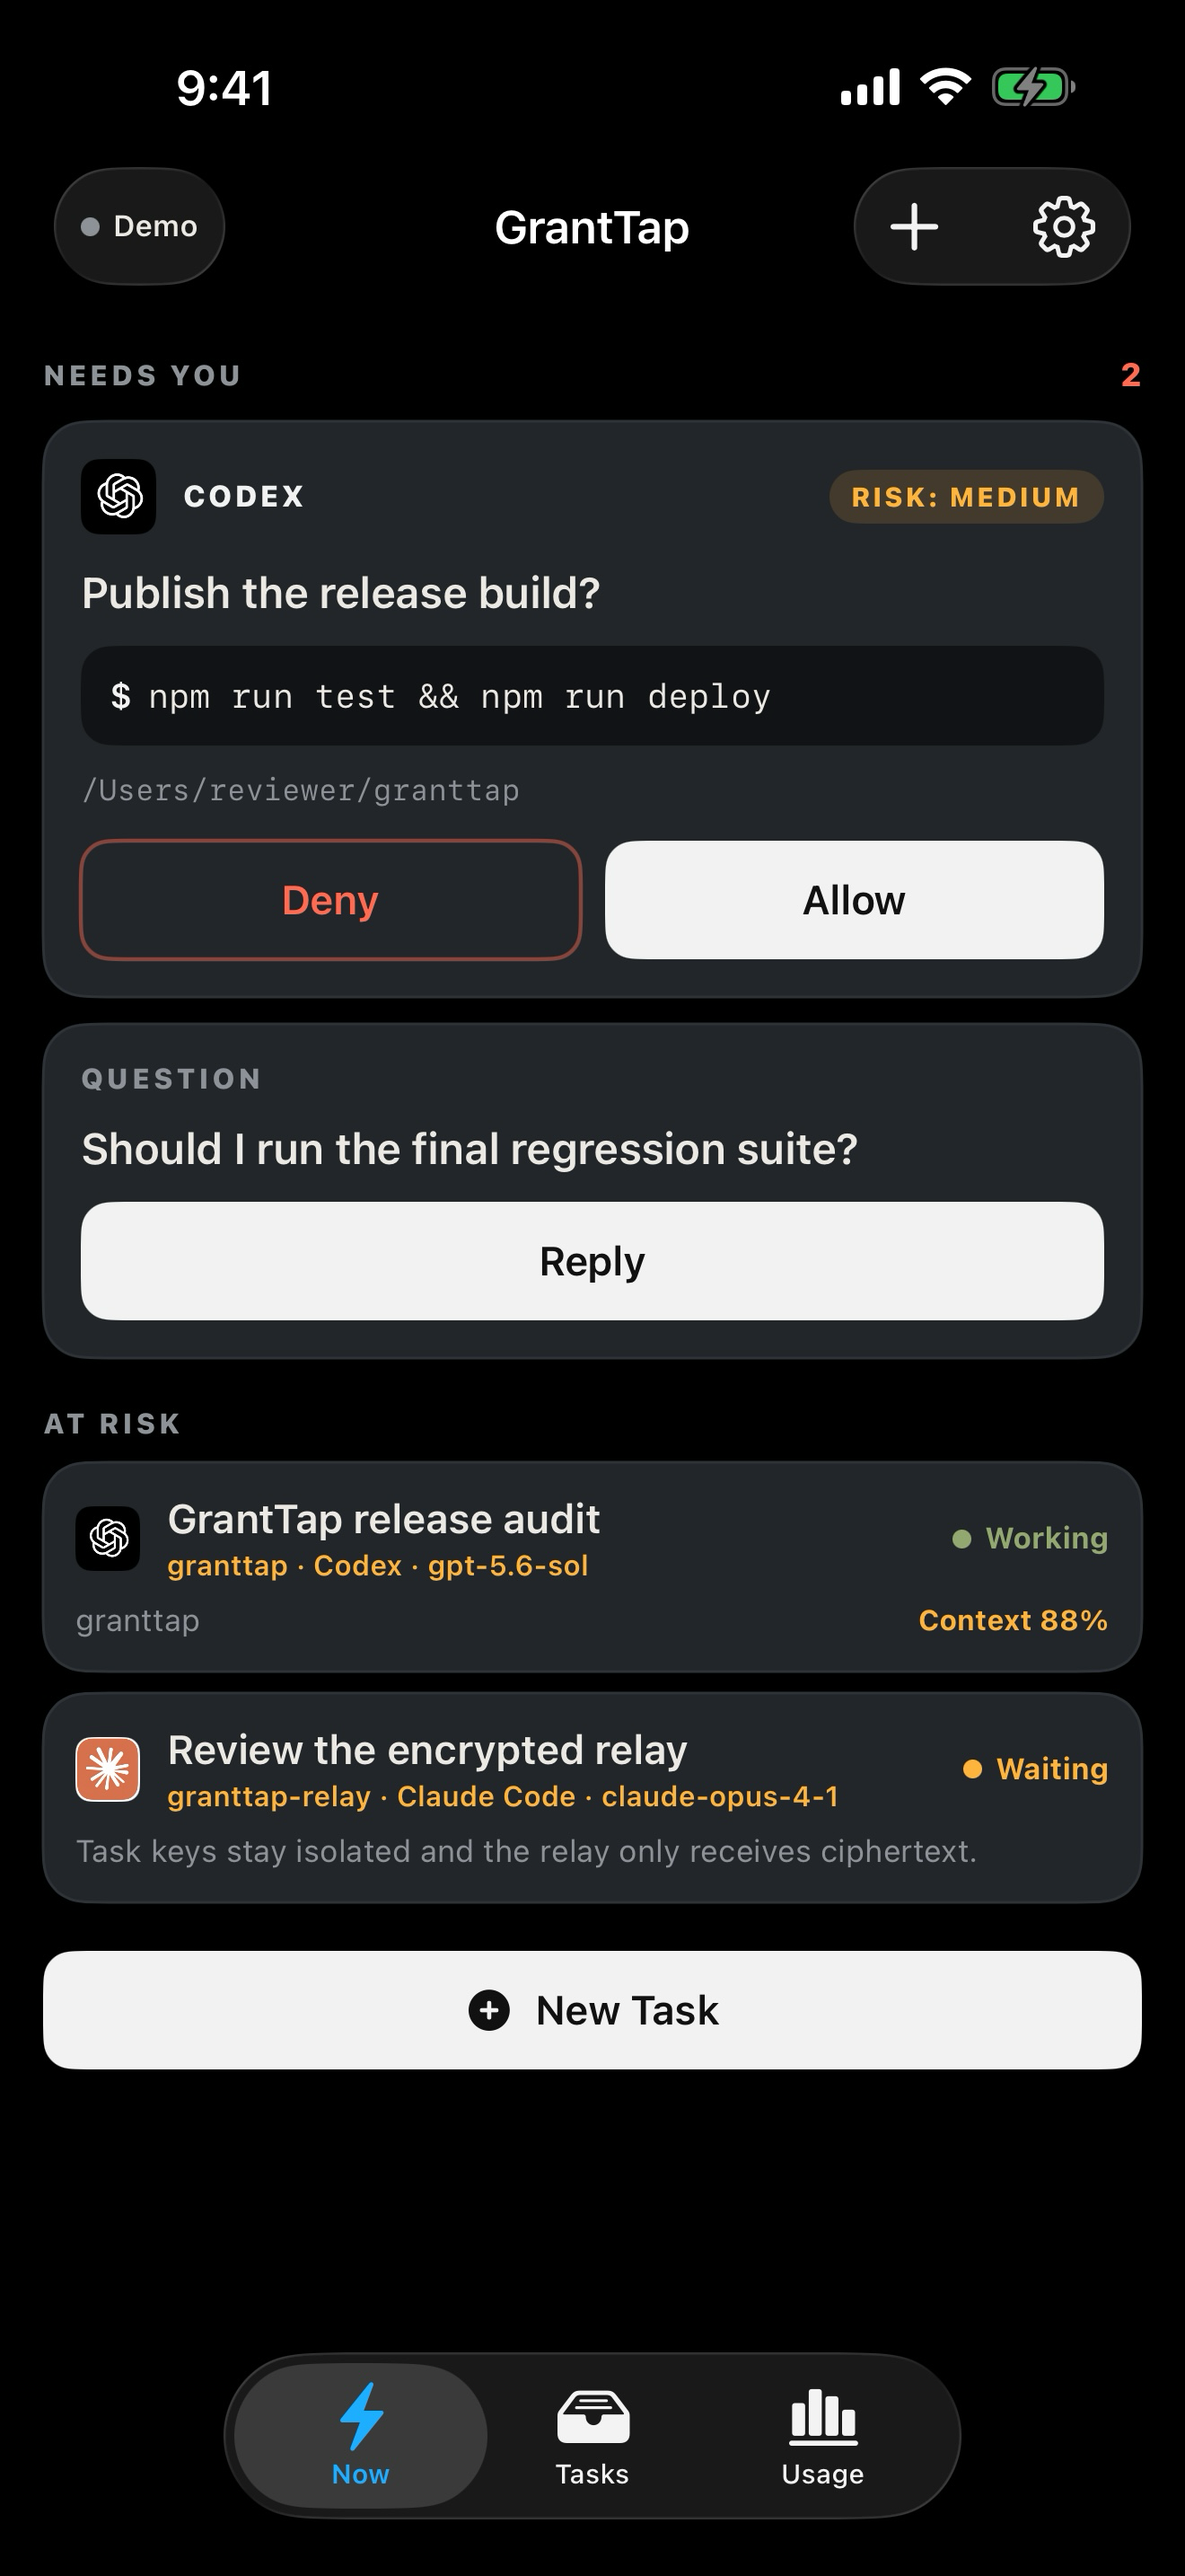
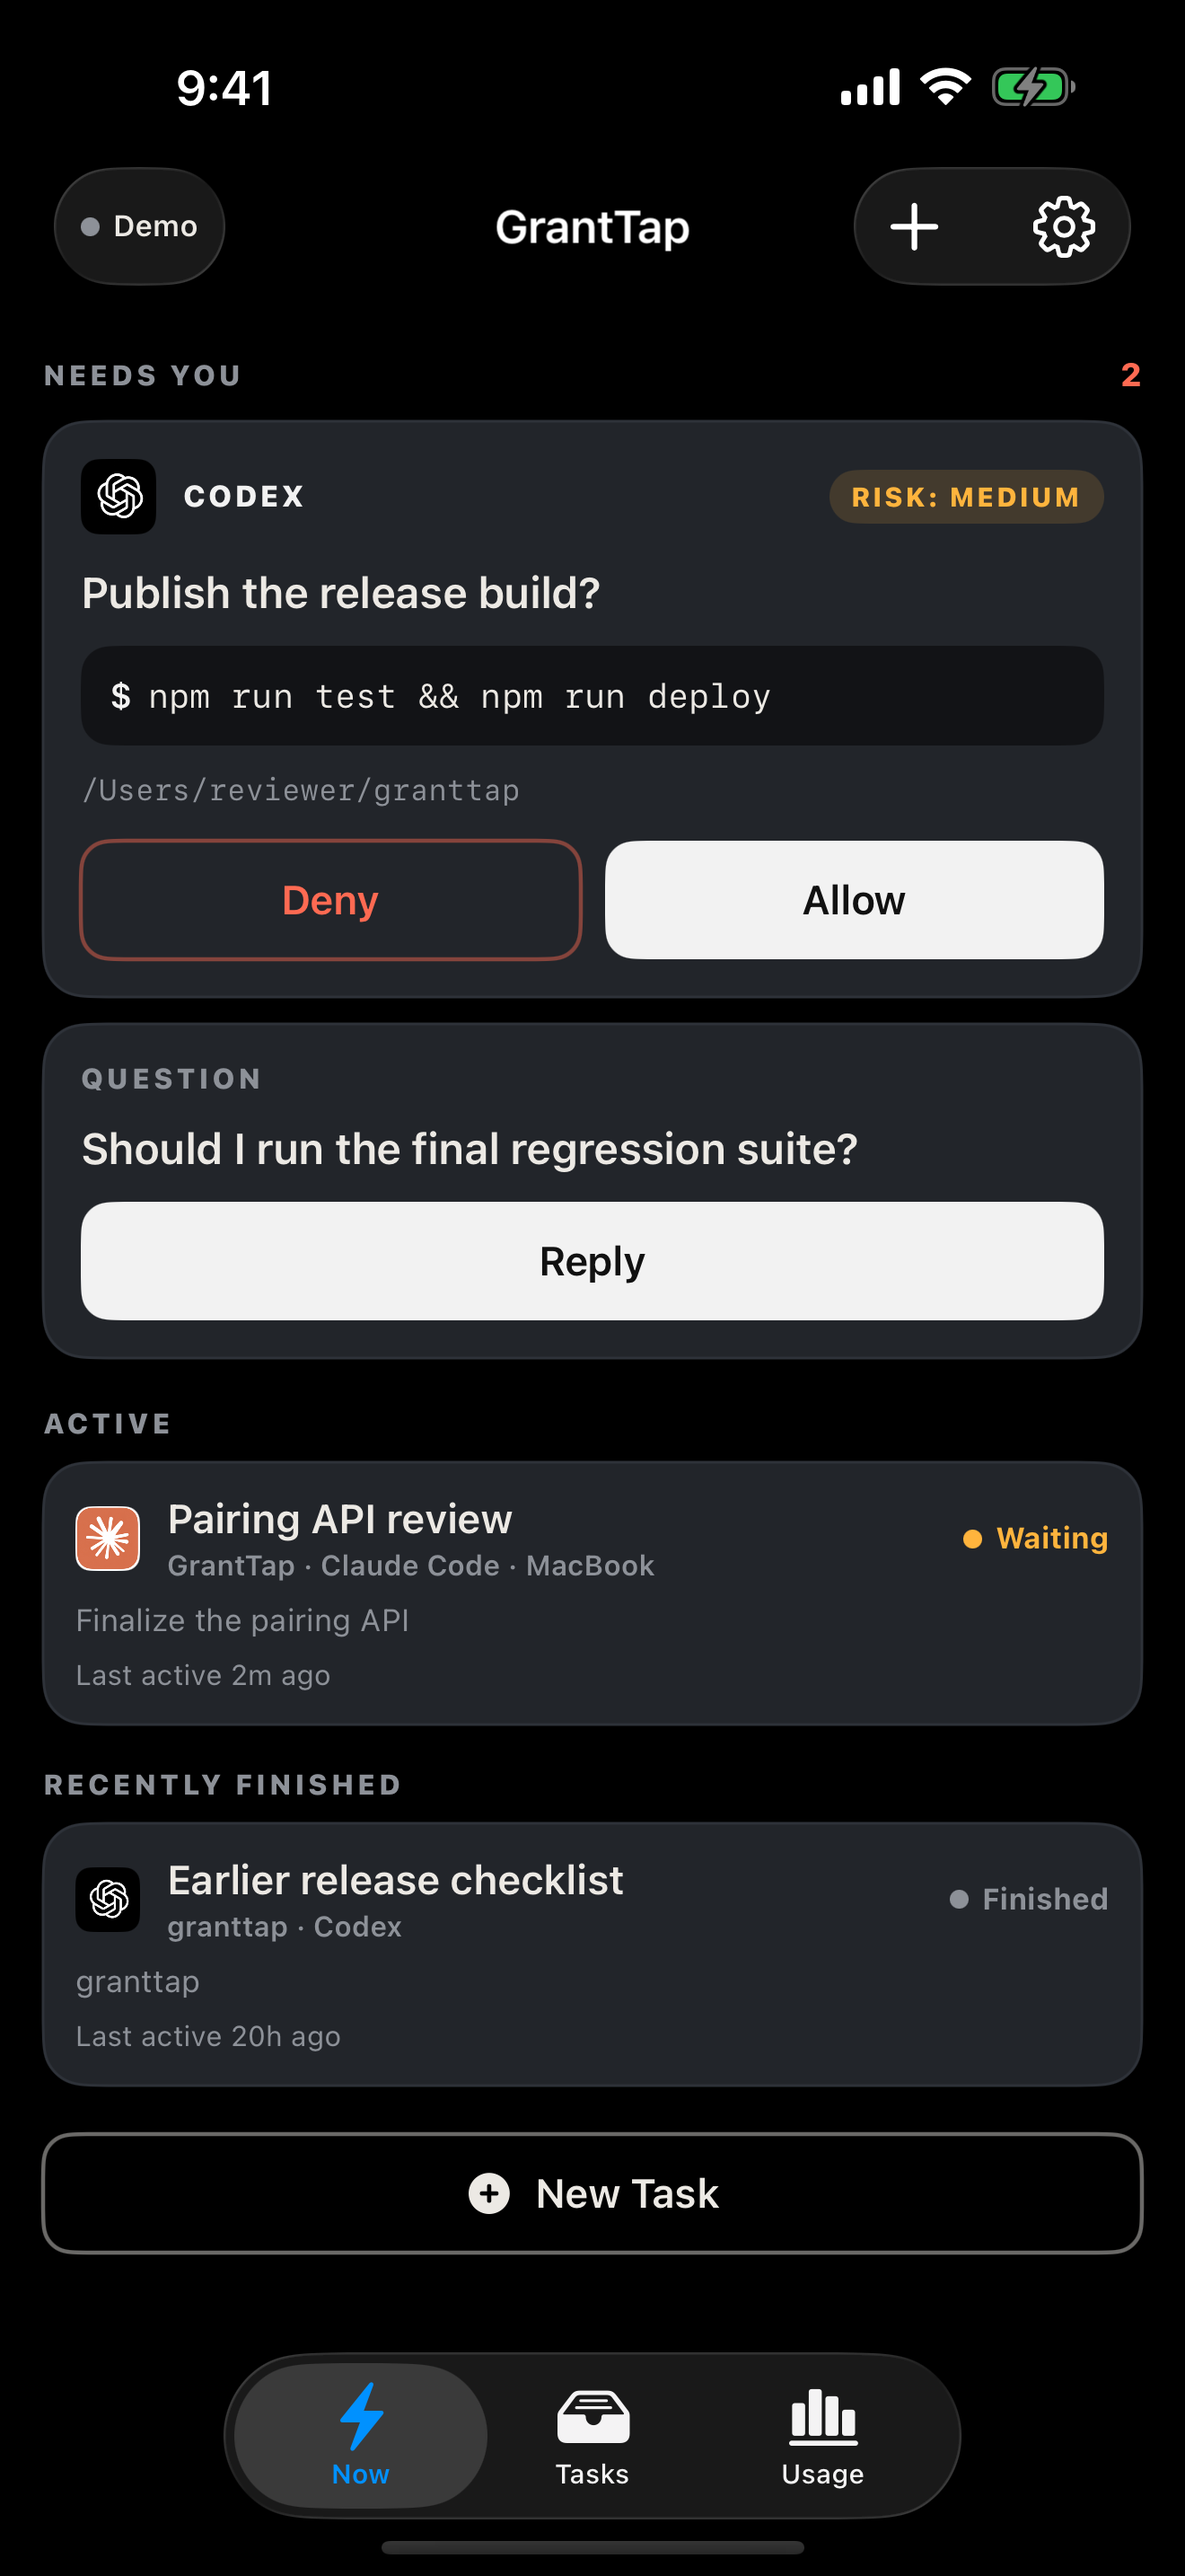
feat: publish the current interface and tier-aware pricing
The captures on the site were five days old and showed neither the Now
window that keeps three days, the last-active line on every task card, the
Actions section in Usage, nor the unified Needs You list on the watch.
They are recaptured from the running app at App Store sizes, and the cache
key moves with them so the change is actually seen.

Changed region(s): [[0.0311, 0.5275, 0.9629, 0.8689], [0.2795, 0.931, 0.6833, 0.993], [0.0311, 0.8379, 0.0621, 0.8689]]

diff --git a/app/layout.tsx b/app/layout.tsx
@@ -48,7 +48,7 @@ export const metadata: Metadata = {
       "See, decide, and continue local Claude Code, Codex, Cursor, and Grok Build tasks from iPhone and Apple Watch.",
     images: [
       {
-        url: "/product/iphone-command-center.png?v=20260823-1",
+        url: "/product/iphone-command-center.png?v=20260828-1",
         width: 1320,
         height: 2868,
         alt: "The current GrantTap task list and composer on iPhone.",
@@ -60,7 +60,7 @@ export const metadata: Metadata = {
     title: "All your coding agents. One live control center.",
     description:
       "A secure Personal live control center for local Claude Code, Codex, Cursor, and Grok Build sessions.",
-    images: ["/product/iphone-command-center.png?v=20260823-1"],
+    images: ["/product/iphone-command-center.png?v=20260828-1"],
   },
 };
 

diff --git a/app/components/ProductImage.tsx b/app/components/ProductImage.tsx
@@ -1,6 +1,6 @@
 import Image from "next/image";
 
-const capture = (name: string) => `/product/${name}.png?v=20260823-1`;
+const capture = (name: string) => `/product/${name}.png?v=20260828-1`;
 
 export function ProductImage({
   name,
